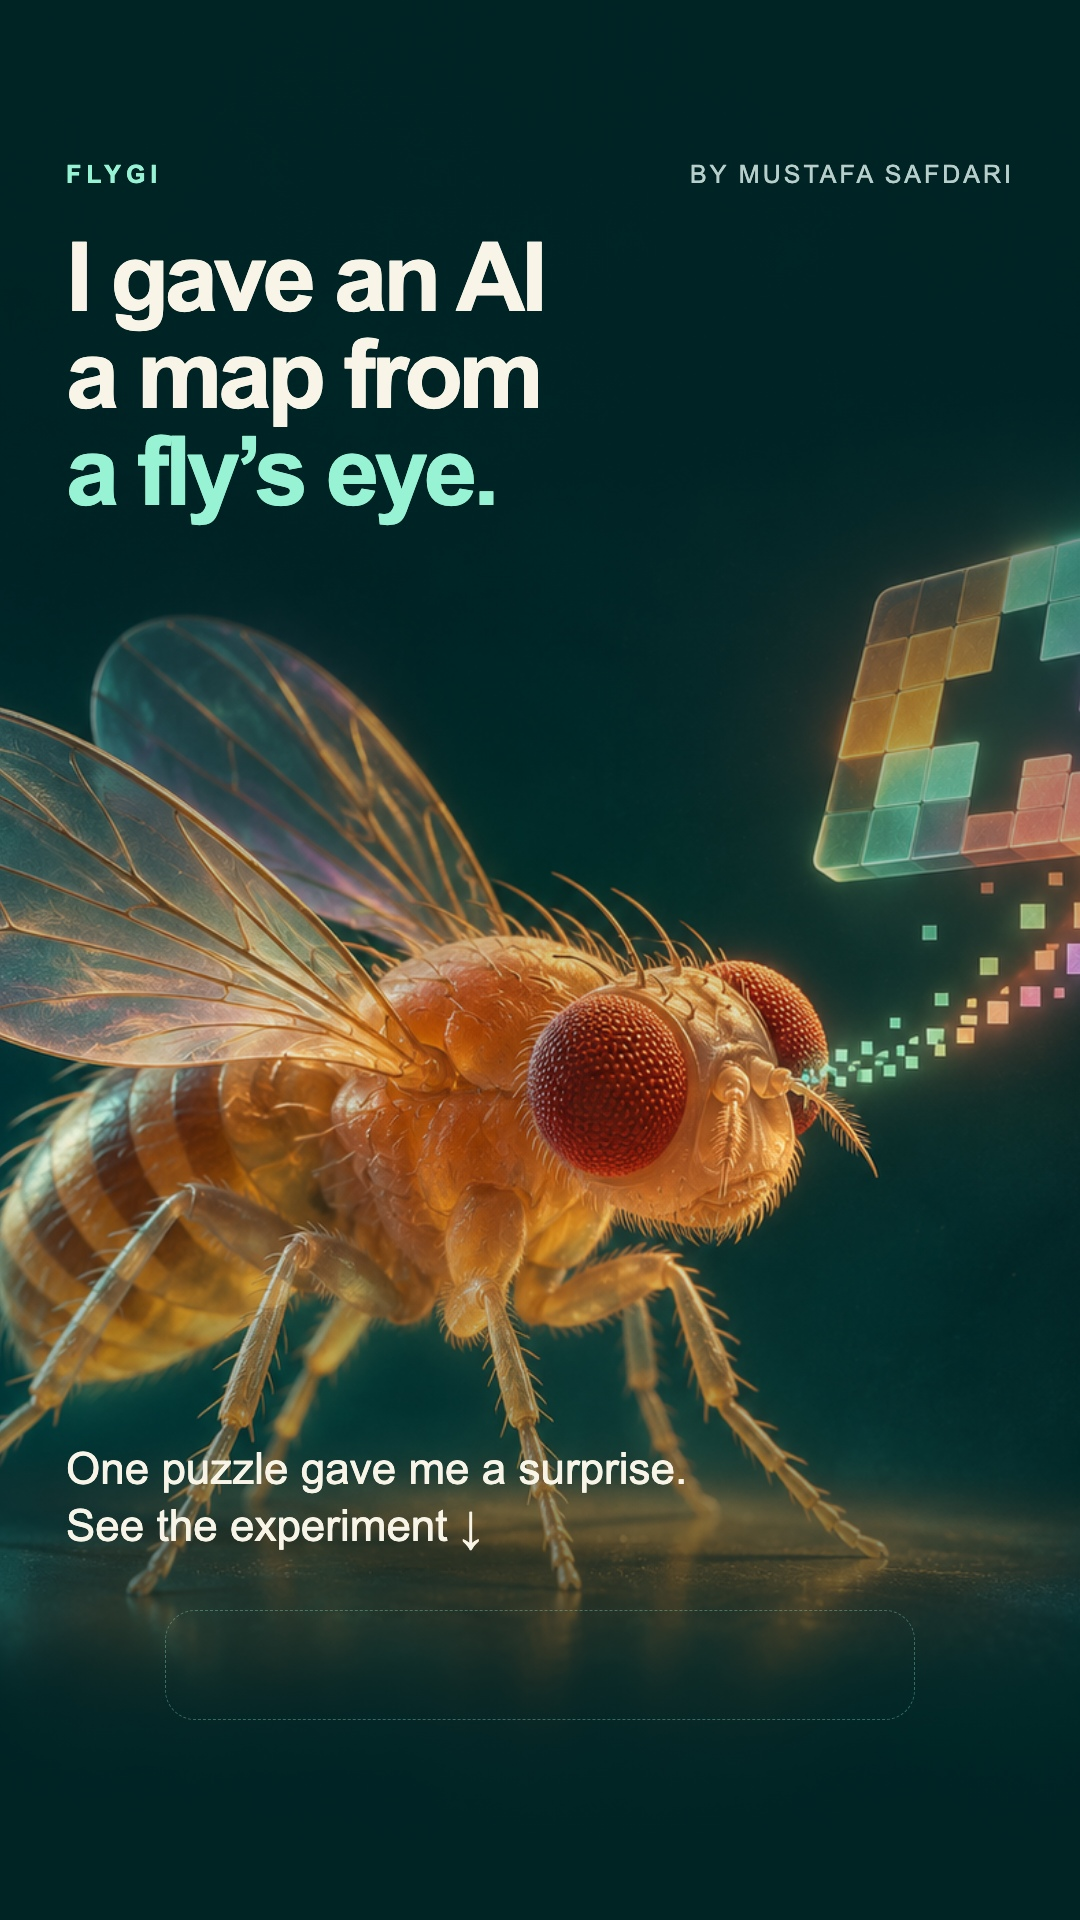
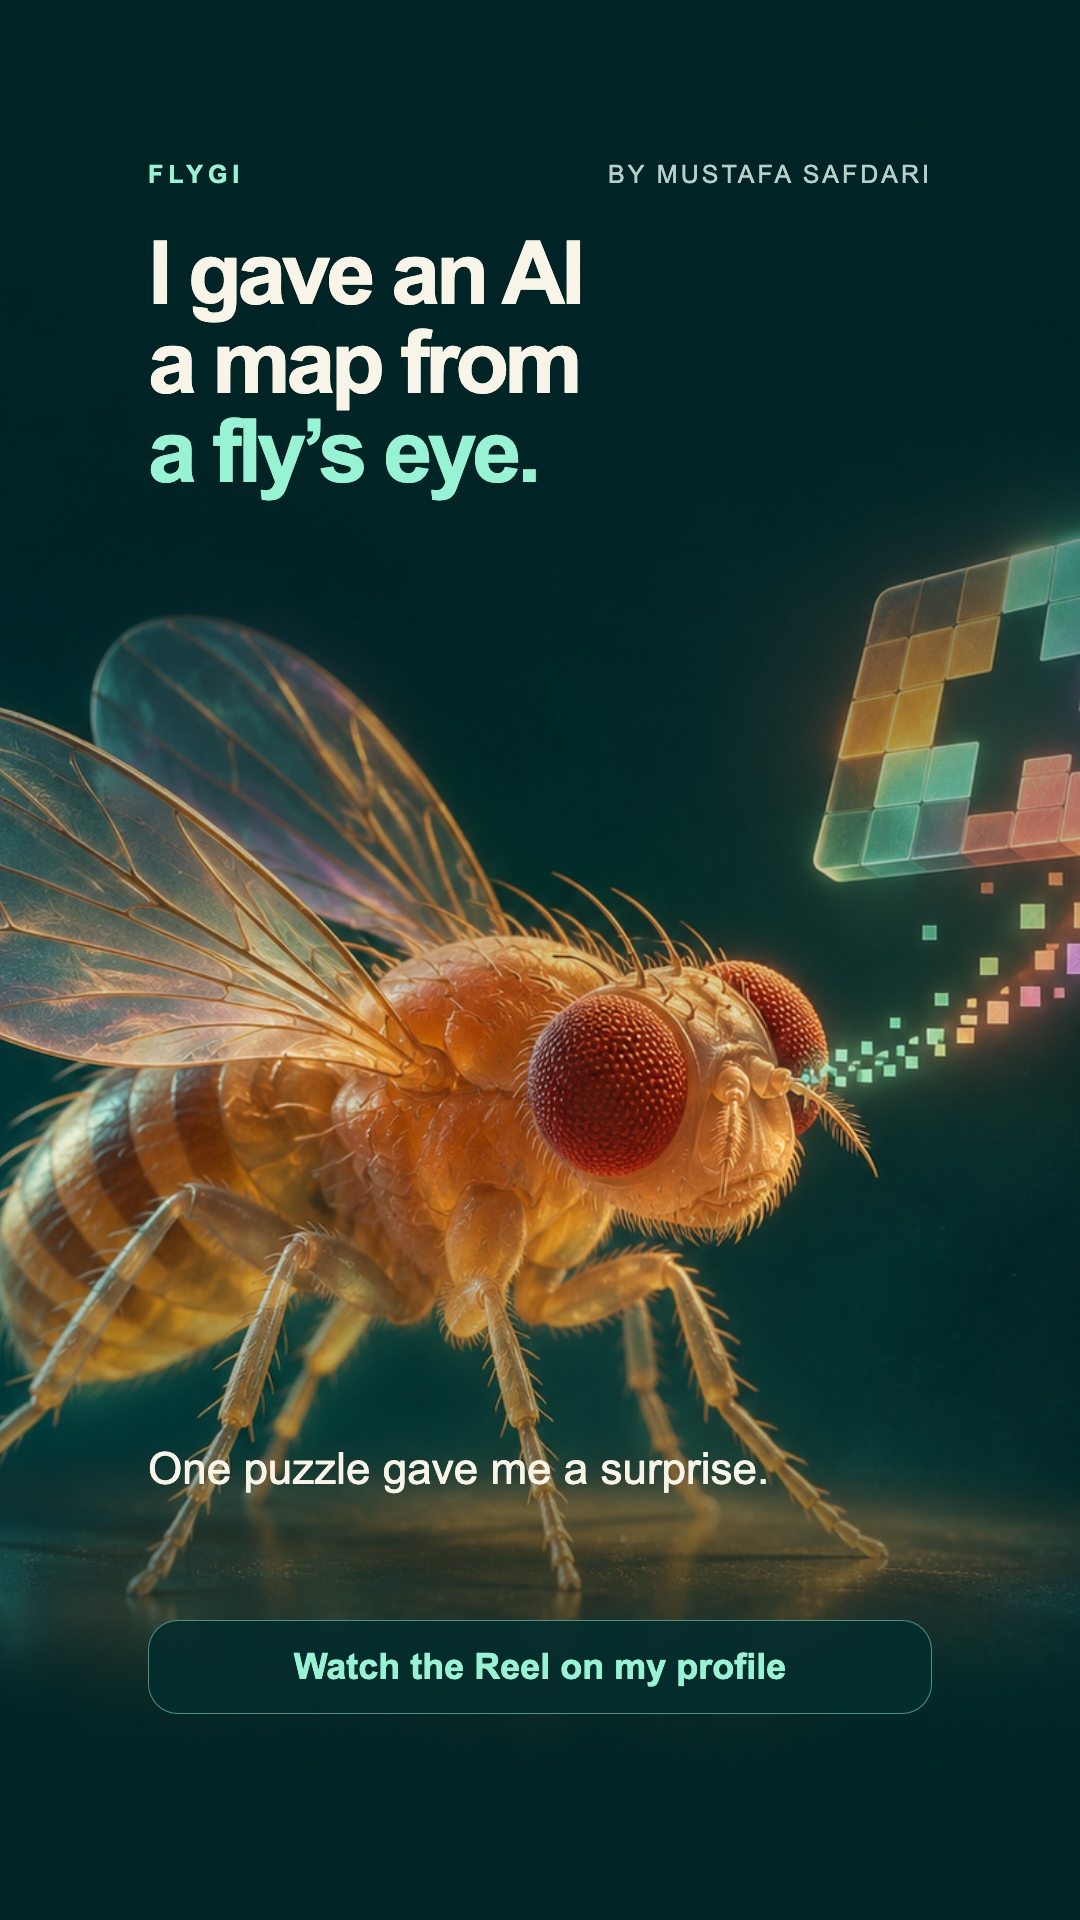
Publish Instagram Story through Chrome phone emulation

diff --git a/docs/social/instagram_20261104/carousel.html b/docs/social/instagram_20261104/carousel.html
@@ -58,9 +58,14 @@ h2 { font-size:81px; line-height:1.03; letter-spacing:-3px; font-weight:800; }
 #story { height:1920px; }
 #story .hero { object-fit:cover; object-position:53% center; }
 #story .hero-shade { background:linear-gradient(#002424df,transparent 60%,#002424ee); }
-#story .title { top:230px; }
-#story .story-cta { position:absolute; top:1440px; left:66px; right:66px; font-size:44px; line-height:1.3; }
-#story .sticker-space { position:absolute; top:1610px; left:165px; right:165px; height:110px; border:1px dashed #97f3d355; border-radius:30px; }
+/* ASSUMPTION: a 148px horizontal inset protects this 9:16 artwork when
+   Instagram fills a taller phone viewport. Verified in the iPhone 16 preview;
+   recheck the live composer if the layout or target device changes. */
+#story .top { left:148px; right:148px; }
+#story .title { top:230px; left:148px; right:148px; }
+#story .title h1 { font-size:88px; }
+#story .story-cta { position:absolute; top:1440px; left:148px; right:148px; font-size:44px; line-height:1.3; }
+#story .profile-cta { position:absolute; top:1620px; left:148px; right:148px; padding:25px 20px; border:1px solid #97f3d380; border-radius:30px; color:var(--mint); background:#032c2ce8; text-align:center; font-size:36px; font-weight:bold; }
 @media print { body {padding:0;} .slide {margin:0;break-after:page;} }
 </style>
 </head>
@@ -120,8 +125,8 @@ h2 { font-size:81px; line-height:1.03; letter-spacing:-3px; font-weight:800; }
 <img class="hero" src="assets/fly-puzzle.png" alt="Illustrated fly and glowing puzzle"><div class="hero-shade"></div>
 <div class="top" style="top:160px"><span class="brand">FLYGI</span><span>BY MUSTAFA SAFDARI</span></div>
 <div class="title"><h1>I gave an AI<br>a map from<br><span class="accent">a fly’s eye.</span></h1></div>
-<div class="story-cta">One puzzle gave me a surprise.<br>See the experiment ↓</div>
-<div class="sticker-space" aria-hidden="true"></div>
+<div class="story-cta">One puzzle gave me a surprise.</div>
+<div class="profile-cta">Watch the Reel on my profile</div>
 </section>
 <script>
 for (const grid of document.querySelectorAll('.dots')) {

diff --git a/WORKLOG.md b/WORKLOG.md
@@ -1,5 +1,40 @@
 # FlyGI durable worklog
 
+## November 4, 2026, 3:49 PM Pacific | Story published through Chrome phone emulation
+
+**Correction and result.** The user challenged the app-only handoff and was
+right. A 390 x 844 viewport resize alone still lacked Story creation, but
+Chrome DevTools Device Mode with the actual **iPhone 16** preset, followed
+by reload, exposed **Your story**. Uploaded and published the teaser without
+the phone app. Instagram showed "Your story was added to Instagram" and the
+new story ring. Opened the live Story and verified its art, complete text,
+profile call to action and AI-content label. Live account Story URL:
+https://www.instagram.com/stories/safdari.mustafa/.
+This supersedes the earlier remaining-manual-Story step. All three requested
+publication artifacts are now live on the already-public account.
+
+**What changed.** The mobile Story composer cropped the old teaser's left
+edge. Increased horizontal text insets from 66 to 148 pixels, reduced its
+headline to 88px, and replaced the blank sticker space with "Watch the Reel
+on my profile." ASSUMPTION: these insets protect this artwork in the taller
+phone viewport; checked the actual iPhone composer and published desktop
+Story before accepting it. The assumption also appears beside the CSS.
+Reran `python3 docs/social/instagram_20261104/render.py`; only the Story
+JPEG changed, with all six carousel exports unchanged. No experiment rerun.
+
+**UI procedure and restoration.** Used Chrome's native Window menu to select
+the Instagram window, then View > Developer > Developer Tools and Device
+toolbar. Dismissed login-save and home-screen-install offers. Keyboard Enter
+on Your story opened the ordinary file chooser; native accessibility Share
+story completed publishing when emulated mouse input stalled. Used supported
+UI controls only. Turned Device Mode off, closed DevTools, reset the viewport
+override and verified the Story again in normal desktop Chrome. Saved Story
+confirmation, preview and live screenshots under the ignored published-proof
+directory. The live Story is left open and paused for the user.
+
+Extension file-access restoration remains the user's deferred step, per their
+"I'll turn it off afterward" reply. No additional upload is pending.
+
 ## November 4, 2026, 3:33 PM Pacific | Instagram carousel and Reel published publicly
 
 The user confirmed they enabled Chrome extension file access. Reconnected

diff --git a/docs/social/instagram_20261104/README.md b/docs/social/instagram_20261104/README.md
@@ -5,8 +5,10 @@ Six finished Instagram cards for a general audience, plus a Story teaser.
 Published November 4, 2026 on the public `safdari.mustafa` account:
 [carousel](https://www.instagram.com/p/DfVo8V4j7wD/) and
 [narrated Reel](https://www.instagram.com/safdari.mustafa/reel/DfVpJsYBfqZ/).
-The Story teaser is not published; its creation control was unavailable in
-the Chrome session. [Publication record](publication.json).
+The [Story teaser](https://www.instagram.com/stories/safdari.mustafa/) was
+also published using Chrome's iPhone 16 device-emulation preset and a reload.
+Resizing the viewport alone did not expose the upload control.
+[Publication record](publication.json).
 
 The [six-click Reel](reel/README.md) adds a 42-second narrated video using
 the actual recorded game actions. Its caption, source and provenance are in
@@ -17,11 +19,11 @@ Upload `exports/01-flygi.jpg` through `06-flygi.jpg`, in that order, with
 [caption.txt](caption.txt). Each card is 1080 × 1350. Keep the portrait crop.
 Add the alt text below through the post's accessibility controls.
 
-The 1080 × 1920 [Story teaser](exports/story-teaser.jpg) leaves space for a
-link sticker beneath the arrow. Link the published carousel or the
-[project](https://github.com/msafdari/FlyGI). The post works without account
-tags. Add verified MaleCNS/HHMI and ARC Prize tags if those accounts are
-available in the composer. A URL in the caption is a human-readable pointer.
+The 1080 × 1920 [Story teaser](exports/story-teaser.jpg) directs viewers to
+the Reel on the profile. Its text margins were checked against the taller
+phone preview and the published Story. The post works without account tags.
+Add verified MaleCNS/HHMI and ARC Prize tags if those accounts are available
+in a future composer. A URL in the caption is a human-readable pointer.
 
 [Preview of all six](exports/preview.jpg) · [Editable layout](carousel.html)
 
